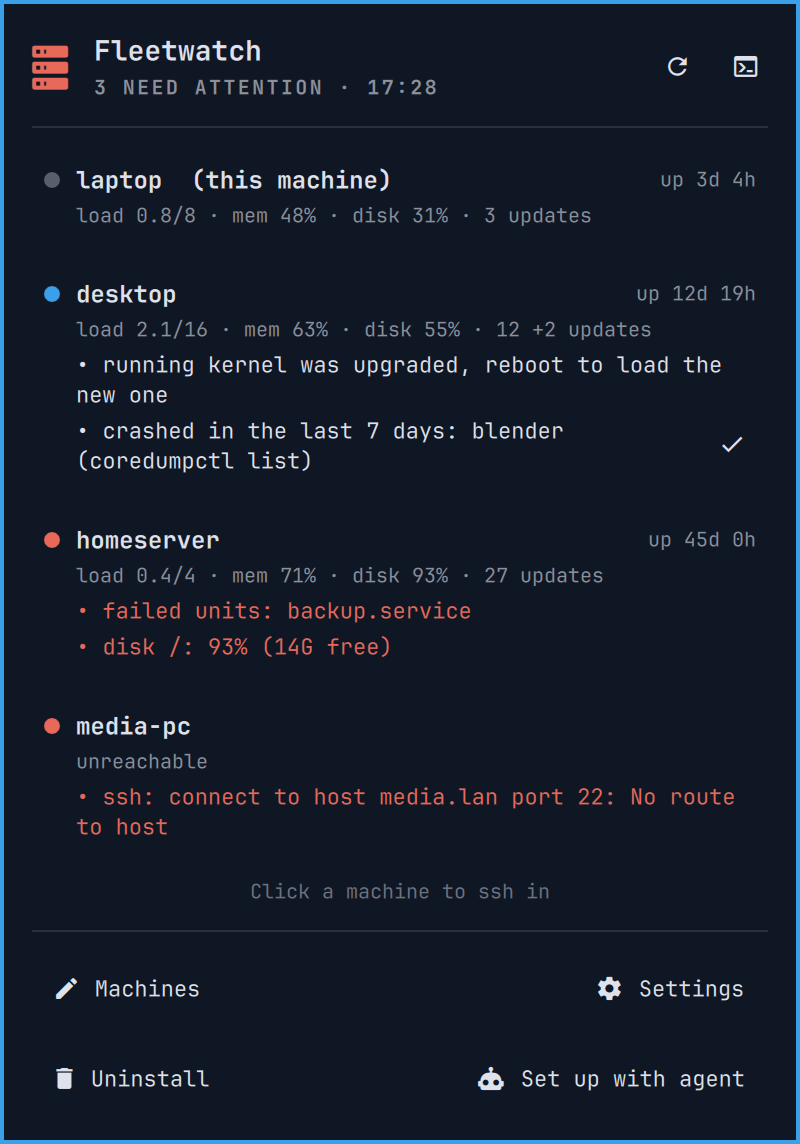
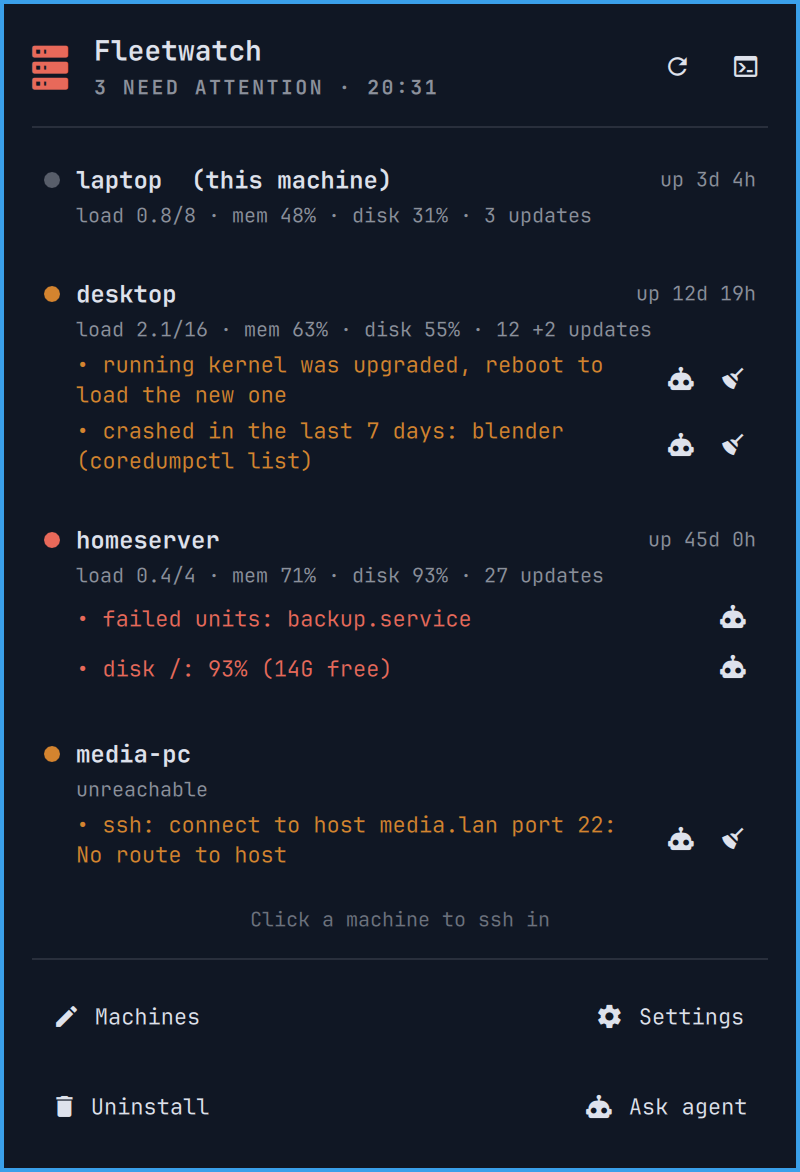
Show the new popup in the preview
Taken with demo/run and its fictional machines: orange warnings, red
problems, a machine that is switched off, and the agent and broom buttons.

diff --git a/README.md b/README.md
@@ -4,7 +4,7 @@
 
 <p align="center"><a href="https://github.com/tcballard/omarchy-badges"><img alt="Built for Omarchy: Plugin" height="20" src="https://raw.githubusercontent.com/tcballard/omarchy-badges/75975e5b5bf75e7ede3764bcd2950046f7abfe2c/badges/v1/omarchy-plugin.svg"></a></p>
 
-<p align="center"><img alt="The Fleetwatch popup listing four machines: one fine, one needing a reboot, one with a full disk and a failed unit, one unreachable" src="preview.png" width="400"></p>
+<p align="center"><img alt="The Fleetwatch popup listing four machines: one fine, one with a reboot note and a crash in orange, one with a full disk and a failed unit in red, and one switched off, in orange. Each issue has an agent button, and each orange one a broom to dismiss it" src="preview.png" width="400"></p>
 
 A bar icon that shows a count when a machine needs attention and turns urgent
 when one is in trouble. It stays dim until you add machines
